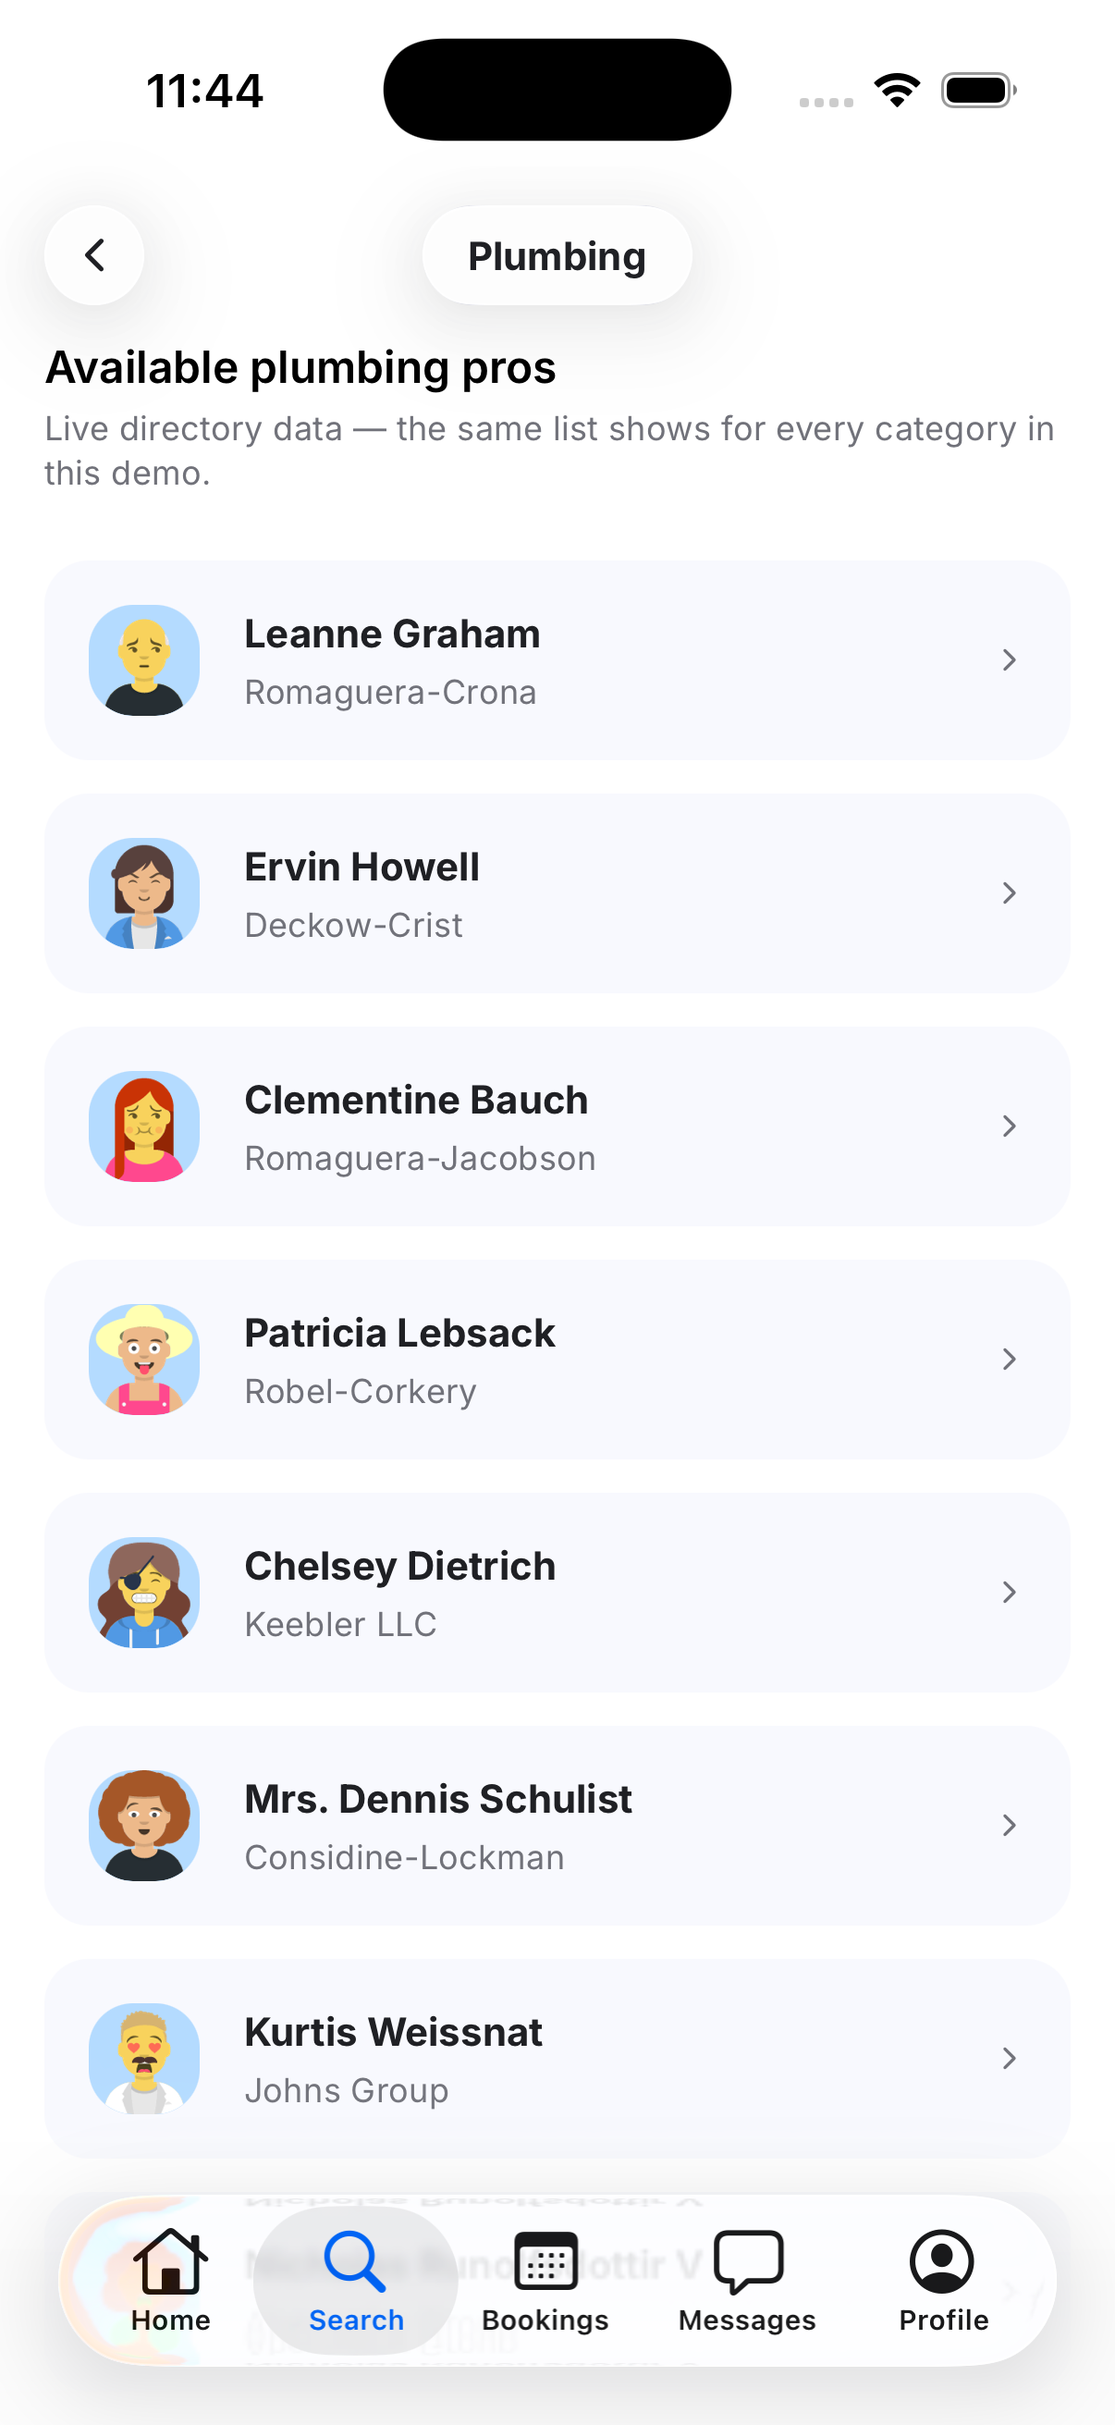
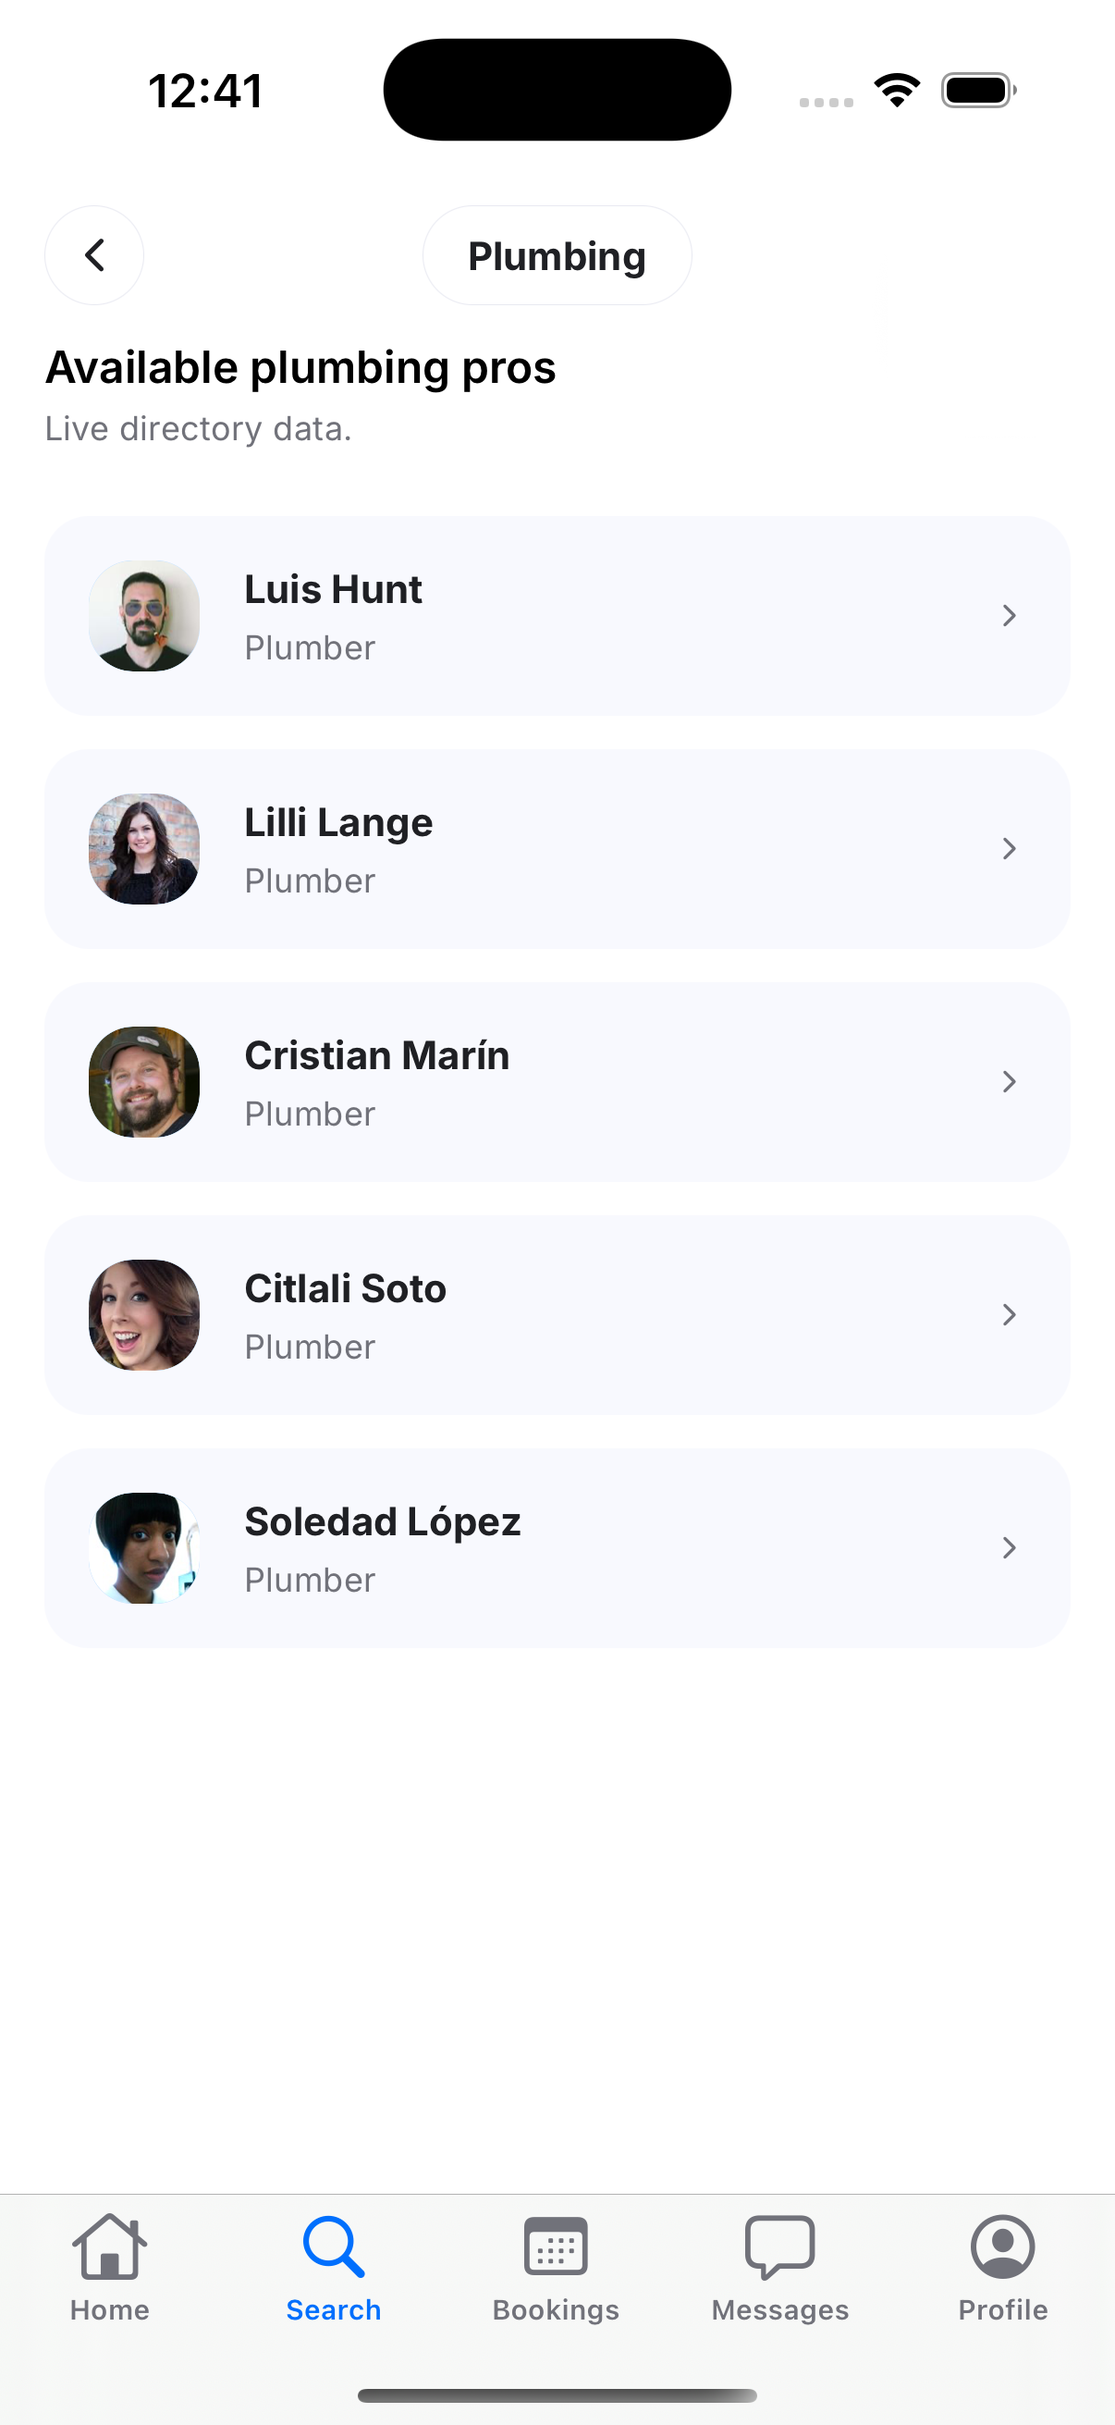
refactor: switch provider data from JSONPlaceholder to randomuser.me
JSONPlaceholder's fake company names and nonsense catchphrases read as
obviously fake for a home-services pro directory. randomuser.me gives
real-looking headshots and realistic names/contact/location fields, and
its seeded results let category filtering be genuinely real instead of
showing the same list for every category.

diff --git a/src/api/providers.ts b/src/api/providers.ts
@@ -1,38 +1,92 @@
+import { categories } from '@/data/mockData';
+
 /**
  * Live directory data for the Categories → category → provider flow.
  *
  * FixIt has no real backend, and there's no public API for "local home
- * service pros" to integrate against — so, per the assignment's own
- * fallback, this uses JSONPlaceholder's /users endpoint as stand-in
- * provider records (JSONPlaceholder has no category field at all, so
- * CategoryDetailsScreen shows the same directory for every category;
- * see the comment there).
+ * service pros" to integrate against — this uses randomuser.me, a free,
+ * no-key, HTTPS API purpose-built for exactly this kind of placeholder
+ * person data: real-looking headshots and realistic names/contact/location
+ * fields, instead of JSONPlaceholder's /users (which reads as obviously
+ * fake test data — made-up company names, nonsense "catchphrases" — for a
+ * pro directory).
+ *
+ * `seed` pins the API to always return the same batch in the same order,
+ * so the directory doesn't reshuffle on every reload, and `results=30`
+ * splits evenly across FixIt's 6 trade categories (see categoryForIndex).
  */
-const API_URL = 'https://jsonplaceholder.typicode.com/users';
+const API_URL = 'https://randomuser.me/api/?results=30&seed=fixit-pros';
 
-export type ApiProvider = {
-  id: number;
-  name: string;
-  username: string;
+/** The exact shape randomuser.me returns for one user (only the fields FixIt uses). */
+type RandomUser = {
+  login: { uuid: string };
+  name: { title: string; first: string; last: string };
   email: string;
   phone: string;
-  website: string;
-  address: {
-    street: string;
-    suite: string;
+  cell: string;
+  dob: { age: number };
+  location: {
+    street: { number: number; name: string };
     city: string;
-    zipcode: string;
+    country: string;
+    postcode: string | number;
   };
-  company: {
-    name: string;
-    catchPhrase: string;
-    bs: string;
-  };
+  picture: { large: string; medium: string; thumbnail: string };
 };
 
-/** DiceBear generates a synthetic illustrated avatar per seed — no real people, no API key. */
-export const avatarFor = (seed: number | string) =>
-  `https://api.dicebear.com/9.x/avataaars/png?seed=${seed}&size=128`;
+export type ApiProvider = {
+  id: string;
+  name: string;
+  role: string;
+  categoryId: string;
+  about: string;
+  email: string;
+  phone: string;
+  cell: string;
+  address: string;
+  imageUrl: string;
+};
+
+/** FixIt's own trade names for the categories randomuser.me obviously has no concept of. */
+const ROLE_LABELS: Record<string, string> = {
+  plumbing: 'Plumber',
+  electrical: 'Electrician',
+  cleaning: 'Cleaner',
+  painting: 'Painter',
+  carpentry: 'Carpenter',
+  gardening: 'Gardener',
+};
+
+/**
+ * randomuser.me has no category field (and no "job" field at all) — each
+ * fetched person is assigned one of FixIt's 6 categories by their position
+ * in the (seeded, so stable) results array, round-robin. This is what
+ * actually makes CategoryDetailsScreen's filter real instead of cosmetic.
+ */
+function categoryForIndex(index: number): (typeof categories)[number] {
+  return categories[index % categories.length];
+}
+
+function toProvider(user: RandomUser, index: number): ApiProvider {
+  const category = categoryForIndex(index);
+  return {
+    id: user.login.uuid,
+    name: `${user.name.first} ${user.name.last}`,
+    role: ROLE_LABELS[category.id],
+    categoryId: category.id,
+    // randomuser.me has no bio field — this is built from its real age/city,
+    // not fabricated text pretending to be an API-provided description.
+    about: `${ROLE_LABELS[category.id]} based in ${user.location.city}, ${user.location.country}. ${user.dob.age} years old.`,
+    email: user.email,
+    phone: user.phone,
+    cell: user.cell,
+    address: `${user.location.street.number} ${user.location.street.name}, ${user.location.city} ${user.location.postcode}`,
+    // Real placeholder headshots from randomuser.me's own photo set — the
+    // same images this API always returns for demo/testing use, not
+    // people connected to this app.
+    imageUrl: user.picture.large,
+  };
+}
 
 /**
  * Shared GET helper: turns a DNS/connection failure (fetch itself throwing)
@@ -40,25 +94,38 @@ export const avatarFor = (seed: number | string) =>
  * instead of letting either a raw TypeError or a bare status code reach the
  * screen's error Text.
  */
-async function get<T>(url: string): Promise<T> {
+async function getProviders(): Promise<ApiProvider[]> {
   let response: Response;
   try {
-    response = await fetch(url);
+    response = await fetch(API_URL);
   } catch {
     throw new Error('Could not reach the server. Check your connection and try again.');
   }
   if (!response.ok) {
     throw new Error(`Request failed (${response.status}). Please try again.`);
   }
-  return response.json();
+  const body: { results: RandomUser[] } = await response.json();
+  return body.results.map(toProvider);
 }
 
-/** GET the full provider directory. */
-export function fetchProviders(): Promise<ApiProvider[]> {
-  return get<ApiProvider[]>(API_URL);
+/** GET the full provider directory, then filter to one category client-side. */
+export async function fetchProvidersByCategory(categoryId: string): Promise<ApiProvider[]> {
+  const providers = await getProviders();
+  return providers.filter((provider) => provider.categoryId === categoryId);
 }
 
-/** GET a single provider by id, for the detail screen reached from the list. */
-export function fetchProviderById(id: number): Promise<ApiProvider> {
-  return get<ApiProvider>(`${API_URL}/${id}`);
+/**
+ * randomuser.me is a generator, not a database — it has no per-record GET
+ * endpoint, so "fetching one provider by id" re-issues the same seeded
+ * request (stable results, see API_URL) and finds that one record client
+ * side. Still a real, independent network round trip with its own
+ * loading/error state, just not a true `/providers/:id` endpoint.
+ */
+export async function fetchProviderById(id: string): Promise<ApiProvider> {
+  const providers = await getProviders();
+  const provider = providers.find((candidate) => candidate.id === id);
+  if (!provider) {
+    throw new Error(`No provider matches id "${id}".`);
+  }
+  return provider;
 }

diff --git a/src/screens/CategoryDetailsScreen.tsx b/src/screens/CategoryDetailsScreen.tsx
@@ -4,7 +4,7 @@ import type { NativeStackNavigationProp } from '@react-navigation/native-stack';
 import { useCallback, useEffect, useState } from 'react';
 import { ActivityIndicator, FlatList, StyleSheet, Text, View } from 'react-native';
 
-import { avatarFor, fetchProviders } from '@/api/providers';
+import { fetchProvidersByCategory } from '@/api/providers';
 import type { ApiProvider } from '@/api/providers';
 import { Button } from '@/components/Button';
 import { Header, useFloatingHeaderClearance } from '@/components/Header';
@@ -21,14 +21,15 @@ type CategoriesStackNav = NativeStackNavigationProp<CategoriesStackParamList>;
 /**
  * The provider directory for one category — reached from CategoriesScreen,
  * fetched live instead of read from local mock data (unlike Home's
- * recommendedPros). JSONPlaceholder's /users has no category field, so the
- * same directory shows for every category here; a real backend would filter
- * this GET by categoryId.
+ * recommendedPros). randomuser.me has no category concept at all, so
+ * fetchProvidersByCategory assigns + filters client-side (see api/providers.ts) —
+ * a real backend would do this filtering itself, but the result here is a
+ * genuinely different directory per category, not the same list relabeled.
  */
 export function CategoryDetailsScreen() {
   const navigation = useNavigation<CategoriesStackNav>();
   const route = useRoute<CategoryDetailsRoute>();
-  const { categoryLabel } = route.params;
+  const { categoryId, categoryLabel } = route.params;
   const { contentWidth, cardWidth, columns } = useResponsiveLayout();
   const headerClearance = useFloatingHeaderClearance();
   const { bottomClearance } = useTabBarLayout();
@@ -42,7 +43,7 @@ export function CategoryDetailsScreen() {
   // the effect runs. "Try again" resets loading/error itself before calling
   // this, since that happens in a Pressable's onPress, not an effect body.
   const load = useCallback(() => {
-    fetchProviders()
+    fetchProvidersByCategory(categoryId)
       .then((data) => {
         setProviders(data);
         setError(null);
@@ -51,7 +52,7 @@ export function CategoryDetailsScreen() {
         setError(err instanceof Error ? err.message : 'Something went wrong.');
       })
       .finally(() => setLoading(false));
-  }, []);
+  }, [categoryId]);
 
   useEffect(() => {
     load();
@@ -85,15 +86,13 @@ export function CategoryDetailsScreen() {
           data={providers}
           numColumns={columns}
           columnWrapperStyle={columns > 1 ? styles.row : undefined}
-          keyExtractor={(item) => item.id.toString()}
+          keyExtractor={(item) => item.id}
           ListHeaderComponent={
             <View style={styles.listHeader}>
               <Text style={[typography.sectionTitle, styles.sectionTitle]}>
                 Available {categoryLabel.toLowerCase()} pros
               </Text>
-              <Text style={[typography.bodyS, styles.subtitle]}>
-                Live directory data — the same list shows for every category in this demo.
-              </Text>
+              <Text style={[typography.bodyS, styles.subtitle]}>Live directory data.</Text>
             </View>
           }
           ListEmptyComponent={
@@ -103,8 +102,8 @@ export function CategoryDetailsScreen() {
             <View style={{ width: cardWidth }}>
               <ProCard
                 name={item.name}
-                role={item.company.name}
-                imageUrl={avatarFor(item.id)}
+                role={item.role}
+                imageUrl={item.imageUrl}
                 onPress={() =>
                   navigation.navigate(SCREENS.PROVIDER_DETAILS, { providerId: item.id })
                 }

diff --git a/src/screens/ProviderDetailsScreen.tsx b/src/screens/ProviderDetailsScreen.tsx
@@ -3,7 +3,7 @@ import { useNavigation, useRoute } from '@react-navigation/native';
 import { useCallback, useEffect, useState } from 'react';
 import { ActivityIndicator, ScrollView, StyleSheet, Text, View } from 'react-native';
 
-import { avatarFor, fetchProviderById } from '@/api/providers';
+import { fetchProviderById } from '@/api/providers';
 import type { ApiProvider } from '@/api/providers';
 import { Avatar } from '@/components/Avatar';
 import { Button } from '@/components/Button';
@@ -18,11 +18,12 @@ import { colors, spacing, typography } from '@/theme';
 type ProviderDetailsRoute = RouteProp<CategoriesStackParamList, 'ProviderDetails'>;
 
 /**
- * Reached by tapping a provider on CategoryDetailsScreen — re-fetches that
- * one record by id (GET /users/:id) rather than reusing the list response,
- * the way a real detail screen would once the backend has per-record data
- * the list view doesn't carry (JSONPlaceholder returns the same shape
- * either way, but the pattern is the point).
+ * Reached by tapping a provider on CategoryDetailsScreen — fetches that one
+ * record again instead of reusing the list response, the way a real detail
+ * screen would once the backend has a true per-record GET endpoint.
+ * randomuser.me doesn't have one (it's a generator, not a database), so
+ * fetchProviderById re-issues the same seeded request and finds the record
+ * client-side — see the comment on that function in api/providers.ts.
  */
 export function ProviderDetailsScreen() {
   const navigation = useNavigation();
@@ -90,26 +91,23 @@ export function ProviderDetailsScreen() {
       >
         <View style={[styles.content, { width: contentWidth, paddingTop: headerClearance }]}>
           <View style={styles.profileHeader}>
-            <Avatar size="lg" imageUrl={avatarFor(provider.id)} />
+            <Avatar size="lg" imageUrl={provider.imageUrl} />
             <Text style={[typography.h1, styles.name]}>{provider.name}</Text>
-            <Tag label={provider.company.name} />
+            <Tag label={provider.role} />
           </View>
 
           <Text style={typography.sectionTitle}>About</Text>
-          <Text style={[typography.bodyM, styles.about]}>{provider.company.catchPhrase}</Text>
+          <Text style={[typography.bodyM, styles.about]}>{provider.about}</Text>
 
           <Text style={typography.sectionTitle}>Contact</Text>
           <View style={styles.list}>
             <ListItem title={provider.email} subtitle="Email" />
             <ListItem title={provider.phone} subtitle="Phone" />
-            <ListItem title={provider.website} subtitle="Website" />
+            <ListItem title={provider.cell} subtitle="Mobile" />
           </View>
 
           <Text style={typography.sectionTitle}>Address</Text>
-          <ListItem
-            title={`${provider.address.street}, ${provider.address.suite}`}
-            subtitle={`${provider.address.city}, ${provider.address.zipcode}`}
-          />
+          <ListItem title={provider.address} subtitle="Address" />
         </View>
       </ScrollView>
 

diff --git a/src/navigation/types.ts b/src/navigation/types.ts
@@ -8,7 +8,7 @@ export type HomeStackParamList = {
 export type CategoriesStackParamList = {
   CategoriesMain: undefined;
   CategoryDetails: { categoryId: string; categoryLabel: string };
-  ProviderDetails: { providerId: number };
+  ProviderDetails: { providerId: string };
 };
 
 /** The 5 bottom tabs — each is its own native stack, even where that stack is one screen deep. */

diff --git a/README.md b/README.md
@@ -197,11 +197,14 @@ record's own detail when you tap into it.
 - **`src/api/providers.ts`** — the only file that calls `fetch()`, per the
   assignment's "keep request logic in its own file" requirement. FixIt has
   no backend and no public API exists for "local home-service pros" to
-  integrate against, so — per the assignment's own fallback — this hits
-  [JSONPlaceholder](https://jsonplaceholder.typicode.com)'s `/users`
-  endpoint as stand-in provider records, behind a `fetchProviders()` (list)
-  and `fetchProviderById(id)` (single record) pair sharing one `get()`
-  helper. `API_URL` is a constant, not inlined at every call site.
+  integrate against, so this hits
+  [randomuser.me](https://randomuser.me), a free, no-key, HTTPS API built
+  for exactly this kind of placeholder-person data — real-looking headshots
+  and realistic names/contact/location fields — behind a
+  `fetchProvidersByCategory(categoryId)` (list) and `fetchProviderById(id)`
+  (single record) pair sharing one `getProviders()` helper. `API_URL` is a
+  constant, not inlined at every call site, and pins a fixed `seed` so the
+  directory doesn't reshuffle on every reload.
 - **Real GET requests, not axios** — plain `fetch`, matching the assignment's
   own example code; no reason to add a dependency for one endpoint.
 - **State via `useState`**, one variable each for the data, `loading`, and
@@ -210,21 +213,26 @@ record's own detail when you tap into it.
 - **`FlatList`**, not a mapped `View` (unlike Home's local `recommendedPros`
   grid) — `renderItem` renders the existing `ProCard` component, `numColumns`
   reflows to 2 columns on tablets the same way the rest of the app does, and
-  `keyExtractor` is `item => item.id.toString()`.
+  `keyExtractor` is `item => item.id` (randomuser.me's `login.uuid`).
 - **Loading and errors are real states, not afterthoughts** — an
   `ActivityIndicator` while the request is in flight, and network failures
   (DNS, no connection) and non-2xx responses both render as an explicit
   message with a "Try again" button, never a blank screen.
 - **Navigation stays wired the same way as assignment 4** — tapping a
   provider pushes `ProviderDetails` with `{ providerId: item.id }`, which
-  re-fetches that one record by id rather than reusing the list response
-  (`GET /users/:id`), the pattern a real per-record detail endpoint would
-  need even though JSONPlaceholder happens to return the same shape either
-  way.
-- **Honest about the mock's limits:** JSONPlaceholder's `/users` has no
-  category field, so `CategoryDetailsScreen` shows the same 10 records for
-  every category and says so in its own subtitle, rather than pretending to
-  filter server-side data that doesn't exist.
+  re-fetches by id rather than reusing the list response, the pattern a real
+  per-record detail endpoint would need.
+- **Honest about the API's limits:** randomuser.me is a person generator, not
+  a directory of tradespeople — it has no category or job field at all, so
+  each fetched person is assigned one of FixIt's 6 trade categories by their
+  position in the (seeded, so stable) results array, round-robin. That's
+  what makes the category filter genuinely different per category rather
+  than cosmetic, but the "About" text is FixIt's own sentence built from the
+  person's real age/city, not an API-provided bio. Likewise, randomuser.me
+  has no per-record GET endpoint, so `fetchProviderById` re-issues the same
+  seeded request and finds that one record client-side instead of hitting a
+  true `/providers/:id` route — still a real, independent network round trip
+  with its own loading/error state, just not a dedicated endpoint.
 
 ## Liquid Glass
 
@@ -268,7 +276,7 @@ src/
                  CategoryDetailsScreen, ProviderDetailsScreen,
                  HelpScreen, ContactScreen, PlaceholderScreen
   data/          mockData.ts — local mock data (Home's pros)
-  api/           providers.ts — live JSONPlaceholder-backed data (Categories' pros)
+  api/           providers.ts — live randomuser.me-backed data (Categories' pros)
 screenshots/
 ```
 
